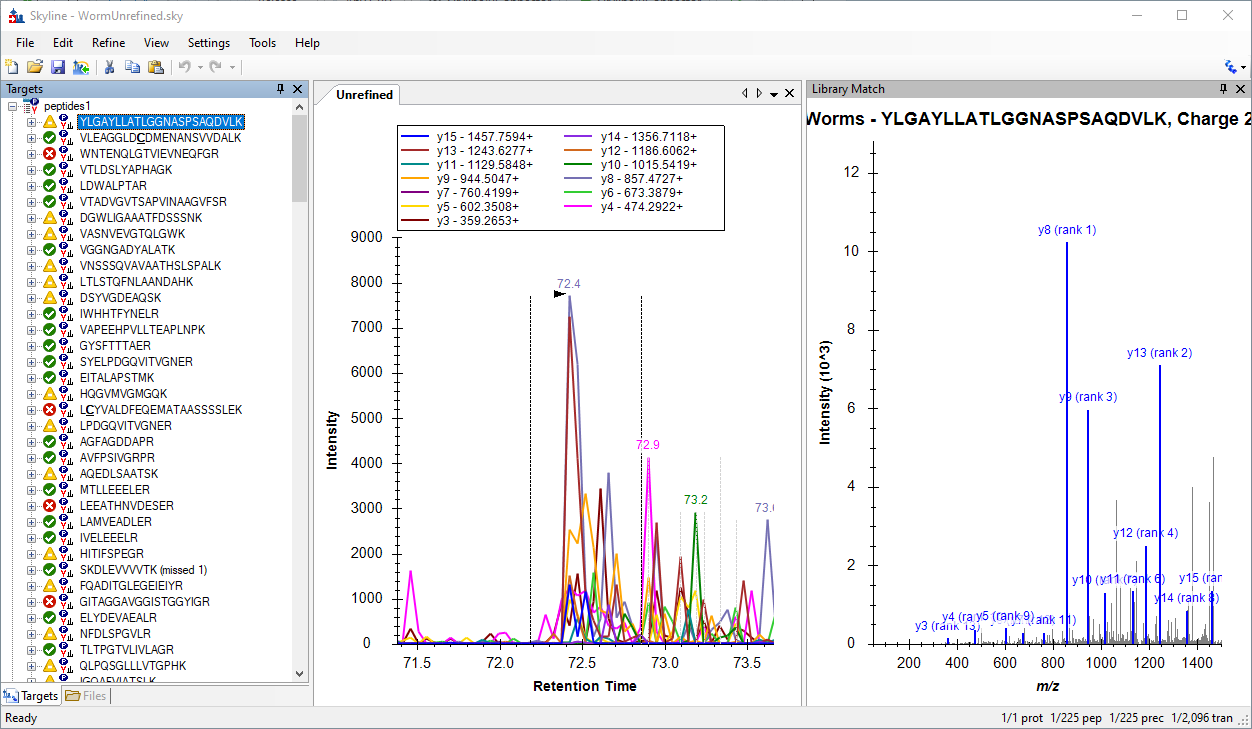
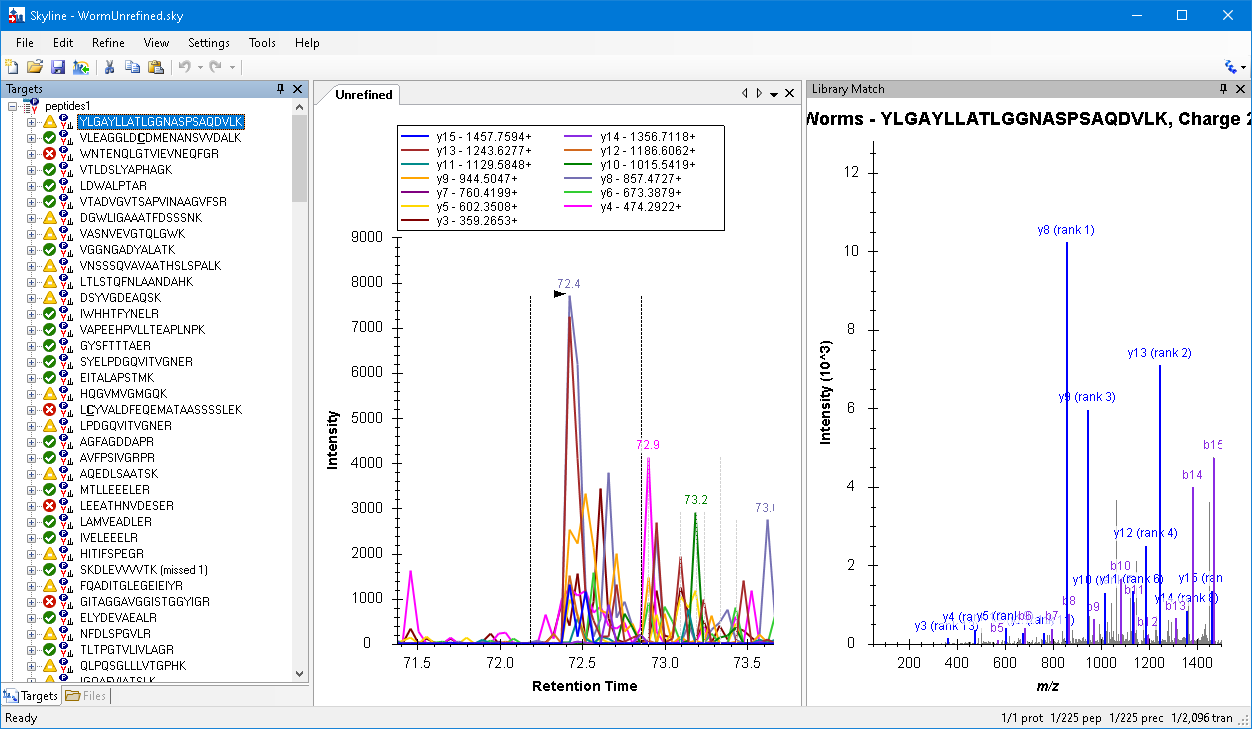
Updated the MethodRefine MCP walkthrough after the Ion Types, graph menu and key-preview fixes
* Re-drove the steps through s-12 on fresh data; recaptured s-01, s-08, s-09, s-12
* s-01/s-12 now show b-ions, s-08 has the focused selection, s-09 lists the File combo's items
* Moved the fixed problems to their own table; noted the Create Regression race and the combo path

See TODO-20260921_typing_in_sequence_tree.md in pwiz-ai/todos

diff --git a/pwiz_tools/Skyline/Documentation/McpTutorialSteps/MethodRefine/MethodRefine-mcp-steps.md b/pwiz_tools/Skyline/Documentation/McpTutorialSteps/MethodRefine/MethodRefine-mcp-steps.md
@@ -4,6 +4,9 @@ Every step of the **Targeted Method Refinement** tutorial (`Tutorials/MethodRefi
 MCP calls that performed it and a screenshot of the result. Driven live on 2026-09-24 against the Release x64
 build of branch `Skyline/work/20260921_typing_in_sequence_tree` at commit `983fcf0d4e`, from a blank document
 through the five scheduled replicates, including the optional re-import of the 39 unrefined RAW files.
+The steps through s-12 were driven again on 2026-09-26 at commit `9254d0aec1`, after the Ion Types, graph
+right-click menu and key-preview fixes, on a fresh extraction (`MethodRefine_20260926`); s-01, s-08, s-09
+and s-12 come from that run, and the steps below show the calls that now work.
 
 - **Data:** fresh extractions of `MethodRefine.zip` and `MethodRefineSupplement.zip` (the RAW versions) to
   `E:\Users\nicksh\SkylineDownloadPath2\Tutorials\MethodRefine_20260924`
@@ -17,8 +20,9 @@ through the five scheduled replicates, including the optional re-import of the 3
   extra captures of steps the tutorial describes but does not picture. The main window was sized, and its
   panes arranged, the way `TestMethodRefinementTutorial` does before each screenshot, so s-09, s-14, s-15,
   s-17 and s-21 come out at the tutorial's size and layout.
-- **Missing:** s-03 (the import progress form): the 15-file import finished before the next call could see
-  the form. It was caught for the unscheduled import instead (`11-importing-unscheduled.png`).
+- **Missing:** s-03 (the import progress form): in both runs the 15-file import finished before a capture
+  could reach the form (the second run saw it listed, then it was gone). It was caught for the unscheduled
+  import instead (`11-importing-unscheduled.png`).
 
 ## How to read the calls
 
@@ -32,7 +36,9 @@ are written `tool(arg=value)` with the `skyline_` prefix dropped. A few more mat
   "Source name" and clicking Open navigates to it, as it does for a reader; `select_item` on its `ListView`
   adds a file to the selection, so a run of files is selected one at a time (see the table below).
 - **A graph's right-click menu** is `click_control_menu_item` with an empty `control` (the graph form's own
-  menu) or the graph control's type (`MSGraphControl`).
+  menu) or the graph control's type (`MSGraphControl`; `MsGraphExtension` for Library Match).
+- **A toolbar combo box** (a `ToolStripComboBox`) is reached one level down, at the `ComboBox` it hosts,
+  which takes `get_options` and `set_value`.
 - **A graph rendered straight from Skyline** (`get_graph_image`) needs nothing in front of it; a capture
   of a form (`get_form_image`) needs Skyline in front and uncovered, or what covers it comes out cyan.
 - **Anything asynchronous is polled**: a settings change (s-07's predicted-time band showed up on the
@@ -60,11 +66,7 @@ in for a tutorial step (dragging the two replicate-comparison graphs to the dock
 
 | Tutorial step | What happened | Stand-in used here |
 |---|---|---|
-| View > Libraries > Ion Types > B (s-01, s-12) | "Menu item not found". **A Skyline bug, not an MCP gap**: the submenu's panel is built only while `ViewMenu.ProteomicsEnabled` is true, and that flag is set only when a document's ion types *change* (`SkylineGraphs.UpdateGraphUI`). Opening WormUnrefined.sky (ion type y) over a default document (also y) leaves it false, so the item is hidden for a reader too. (#4671 item 3) | None. s-01 and s-12 show y-ions only, which loses s-12's point (y10/b10 and y12/b12 share a peak) |
-| Library Match right-click > Ion Types | The menu the connector builds has only Show Mass Error, Auto-scale Y-axis, rulers and copy items. `PopulateGraphContextMenu` does not set the menu's `SourceControl`, and `SpectrumContextMenu.BuildSpectrumMenu` finds the spectrum control through it, so it takes the "not annotated" branch and leaves out Ion Types, Charges, Ranks and the rest. Addressing `MsGraphExtension` instead gives "msGraphExtension has no context menu" | None |
 | Delete key on the Targets tree | No effect, as in MethodEdit | `click_main_menu_item("Edit > Delete")` |
-| Escape on the regression graph (s-08) | `GraphSummary` handles Escape in the *form's* `KeyDown` (`KeyPreview`); `send_key_stroke` raises `KeyDown` on the `ZedGraphControl` only, so the handler never runs, and the form itself "does not support the action 'send_key_stroke'" | None; s-08 has the right rows, but the selection is grey because the tree does not have the focus |
-| "Click on this list" (the chromatogram's File combo, s-09) | The `ToolStripComboBox` item itself supports only `get_actions`, `get_children`, `click`, `get_value`. Not a gap: the combo box it hosts is its child, and takes `get_options` / `set_value` (checked afterwards on a two-file replicate): `path={"parent":{"parent":{"parent":{"text":"GraphChromatogram:<replicate>","type":"Form"},"type":"ToolStrip"},"type":"ToolStripComboBox","index":0},"type":"ComboBox"}` | (none needed) |
 | F11 / Shift-F11 | Main-menu shortcut keys sent to the tree have no effect (the zoom stayed 0-100 min) | View > Auto-Zoom > Best Peak / None |
 | Home key (review after automated refinement) | No effect; only the arrows and Ctrl+Home / Ctrl+End are handled | `Ctrl+Home` |
 | Click, then Shift-click a run of files | No Shift-click verb | `select_item` once per file: 15, 24, then 5 calls |
@@ -74,10 +76,25 @@ in for a tutorial step (dragging the two replicate-comparison graphs to the dock
 | Close a graph with its red x | Works: `dismiss_with_cancel_button` on the graph form closes it | (not a gap) |
 | Windows Explorer / Excel views of the output | Outside Skyline | Row counts and first lines read from the files |
 
-Since this run, three of these have been fixed: the Ion Types submenu now follows the current document; the
-connector sets a graph menu's `SourceControl`, so the Library Match right-click menu is complete (and
-`MsGraphExtension` resolves to its graph); and `send_key_stroke` lets a form with `KeyPreview` see the key
-first, so Escape on a graph returns to the Targets view.
+### Fixed after the first run
+
+The first run (2026-09-24) hit three more problems, fixed on the branch and confirmed in the 2026-09-26 run:
+
+| Tutorial step | What happened | Fix |
+|---|---|---|
+| View > Libraries > Ion Types > B (s-01, s-12) | "Menu item not found". **A Skyline bug**: the submenu's panel was built only while `ViewMenu.ProteomicsEnabled` was true, a flag set only when a document's ion types *changed*; opening WormUnrefined.sky (y) over a default document (also y) left it false and the item hidden, for a reader too (#4671 item 3). s-01 and s-12 showed y-ions only | `ProteomicsEnabled` / `SmallMoleculesEnabled` now come from the current document |
+| Library Match right-click > Ion Types | The connector's menu had only Show Mass Error, Auto-scale Y-axis, rulers and copy items: it did not set the menu's `SourceControl`, through which `SpectrumContextMenu` finds the annotated spectrum. `MsGraphExtension` gave "has no context menu" | `SourceControl` is set to the graph; `MsGraphExtension` resolves to its graph |
+| Escape on the regression graph (s-08) | `GraphSummary` takes Escape in the *form's* `KeyDown` (`KeyPreview`); `send_key_stroke` raised `KeyDown` on the graph control only, so the Targets view never got the focus and s-08's selection was grey | `send_key_stroke` raises `KeyDown` on each enclosing `KeyPreview` form first |
+
+The chromatogram's File list (s-09) looked like a gap in the first run and is not: the toolbar item only
+supports `click` and `get_value`, but the combo box it hosts is its child and takes `get_options` /
+`set_value` (section 7).
+
+Two things found in the second run: a list of quoted file names typed into the results browser's "Source
+name" is refused ("Please select one or more data sources"), so files are still selected one at a time; and
+`Create Regression` right after the threshold dialog closes can capture the regression from before the
+threshold change (a 22.8 min window, 140 peptides), so the graph is rendered first until it shows r = 0.9511
+(section 6).
 
 ### Differences from the tutorial text (not MCP gaps)
 
@@ -93,7 +110,8 @@ the ja and zh-CHS versions still have the old text.
   times 4 minutes apart" as the text says; the tutorial's spreadsheet picture shows the same values
   (40.97, 4) as this run.
 - **s-09's legend lists each transition twice** (16 entries) where the tutorial's lists 8; the curves and
-  labels are otherwise the same.
+  labels are otherwise the same. It is the same with the re-imported data and with the `.skyd` that ships
+  in `MethodRefine.zip`, so it is how this Skyline draws the graph, not an import artifact.
 
 ---
 
@@ -129,12 +147,19 @@ send_key_stroke(formId="SequenceTreeForm:Targets", controlId="SequenceTree", key
 send_key_stroke(formId="SequenceTreeForm:Targets", controlId="SequenceTree", keyStroke="Down")
 get_selection()   -> Molecule:/peptides1/YLGAYLLATLGGNASPSAQDVLK
 click_main_menu_item(menuPath="View > Auto-Zoom > Best Peak")
-click_main_menu_item(menuPath="View > Libraries > Ion Types > B")   -> Menu item not found (see above)
 resize_window(formId="SkylineWindow:Skyline - WormUnrefined.sky", width=1266, height=736)
+get_graph_image(formId="GraphSpectrum:Library Match")   # y-ions only: b-ions are off
+click_main_menu_item(menuPath="View > Libraries > Ion Types > B")
+get_graph_image(formId="GraphSpectrum:Library Match")   # not redrawn yet
+get_graph_image(formId="GraphSpectrum:Library Match")   # b5 ... b15 in purple
 get_form_image(formId="SkylineWindow:Skyline - WormUnrefined.sky")
 ```
 
-**s-01**: the tutorial's window, graphs and `1/225 pep  1/2,096 tran`, without the b-ions.
+The B item toggles, and the setting outlives the document, so the spectrum is looked at before clicking it.
+The same toggle is on the spectrum's right-click menu:
+`click_control_menu_item(formId="GraphSpectrum:Library Match", control="MsGraphExtension", menuPath="Ion Types > B")`.
+
+**s-01**: the tutorial's window, graphs, b-ions and `1/225 pep  1/2,096 tran`.
 
 ![s-01](images/s-01.png)
 
@@ -251,7 +276,9 @@ dismiss_with_accept_button(formId="RegressionRTThresholdDlg:Set Retention Time T
 get_graph_image(formId="GraphSummary:Retention Times - Score To Run Regression")
 ```
 
-**s-06**: r = 0.9511, window 15.8.
+**s-06**: r = 0.9511, window 15.8. Wait for this before Create Regression: the regression is recalculated in
+the background, and in the second run a Create Regression sent straight after the threshold dialog closed
+took the old one (140 peptides, a 22.8 min window, and a Predicted 46.3 in s-09).
 
 ![s-06](images/s-06.png)
 
@@ -285,11 +312,11 @@ click_graph(formId="GraphSummary:Retention Times - Score To Run Regression",
             left=18.6674448596158, top=0, right=18.6674448596158, bottom=0)
 get_selection()   -> Molecule:/peptides1/YLAEVASEDR
 send_key_stroke(formId="GraphSummary:Retention Times - Score To Run Regression",
-                controlId="ZedGraphControl", keyStroke="Esc")          # no effect (see above)
+                controlId="ZedGraphControl", keyStroke="Esc")          # the graph form sends the focus to Targets
 get_form_image(formId="SequenceTreeForm:Targets")
 ```
 
-**s-08**: the 7 peptides without peak icons above YLAEVASEDR; the selection is grey rather than blue.
+**s-08**: the 7 peptides without peak icons above YLAEVASEDR, which is selected in the focused tree.
 
 ![s-08](images/s-08.png)
 
@@ -308,12 +335,18 @@ get_form_image(formId="GraphChromatogram:Unrefined")
 
 ![s-09](images/s-09.png)
 
+"If you click on this list, it will show that both worm_0027.RAW and worm_0028.RAW contained measurements":
+the list is the combo box hosted by the toolbar's `ToolStripComboBox`, addressed one level below it.
+
 ```
 perform_action(form="GraphChromatogram:Unrefined", action="get_options",
-  path={"parent":{"parent":{"text":"GraphChromatogram:Unrefined","type":"Form"},"type":"ToolStrip"},
-        "type":"ToolStripComboBox","index":0})
-  -> "does not support the action 'get_options'"
+  path={"parent":{"parent":{"parent":{"text":"GraphChromatogram:Unrefined","type":"Form"},"type":"ToolStrip"},
+                  "type":"ToolStripComboBox","index":0},
+        "type":"ComboBox"})
+  -> ["worm_0027.RAW","worm_0028.RAW"]
 ```
+
+`set_value` on the same path chooses a file (tried on a two-file replicate).
 
 The p13 layout closed the regression graph, which is where the tutorial clicks its red x.
 
@@ -348,7 +381,8 @@ get_graph_image(formId="GraphSpectrum:Library Match")            # blank: still 
 get_graph_image(formId="GraphSpectrum:Library Match")
 ```
 
-**s-12**: y10 (rank 1) and y12 (rank 2) are the tallest, but without the b10/b12 labels (see above).
+**s-12**: the two tallest peaks are y10 (rank 1) with b10 and y12 (rank 2) with b12, the overlap the tutorial
+points out, and b4 to b14 in purple.
 
 ![s-12](images/s-12.png)
 
